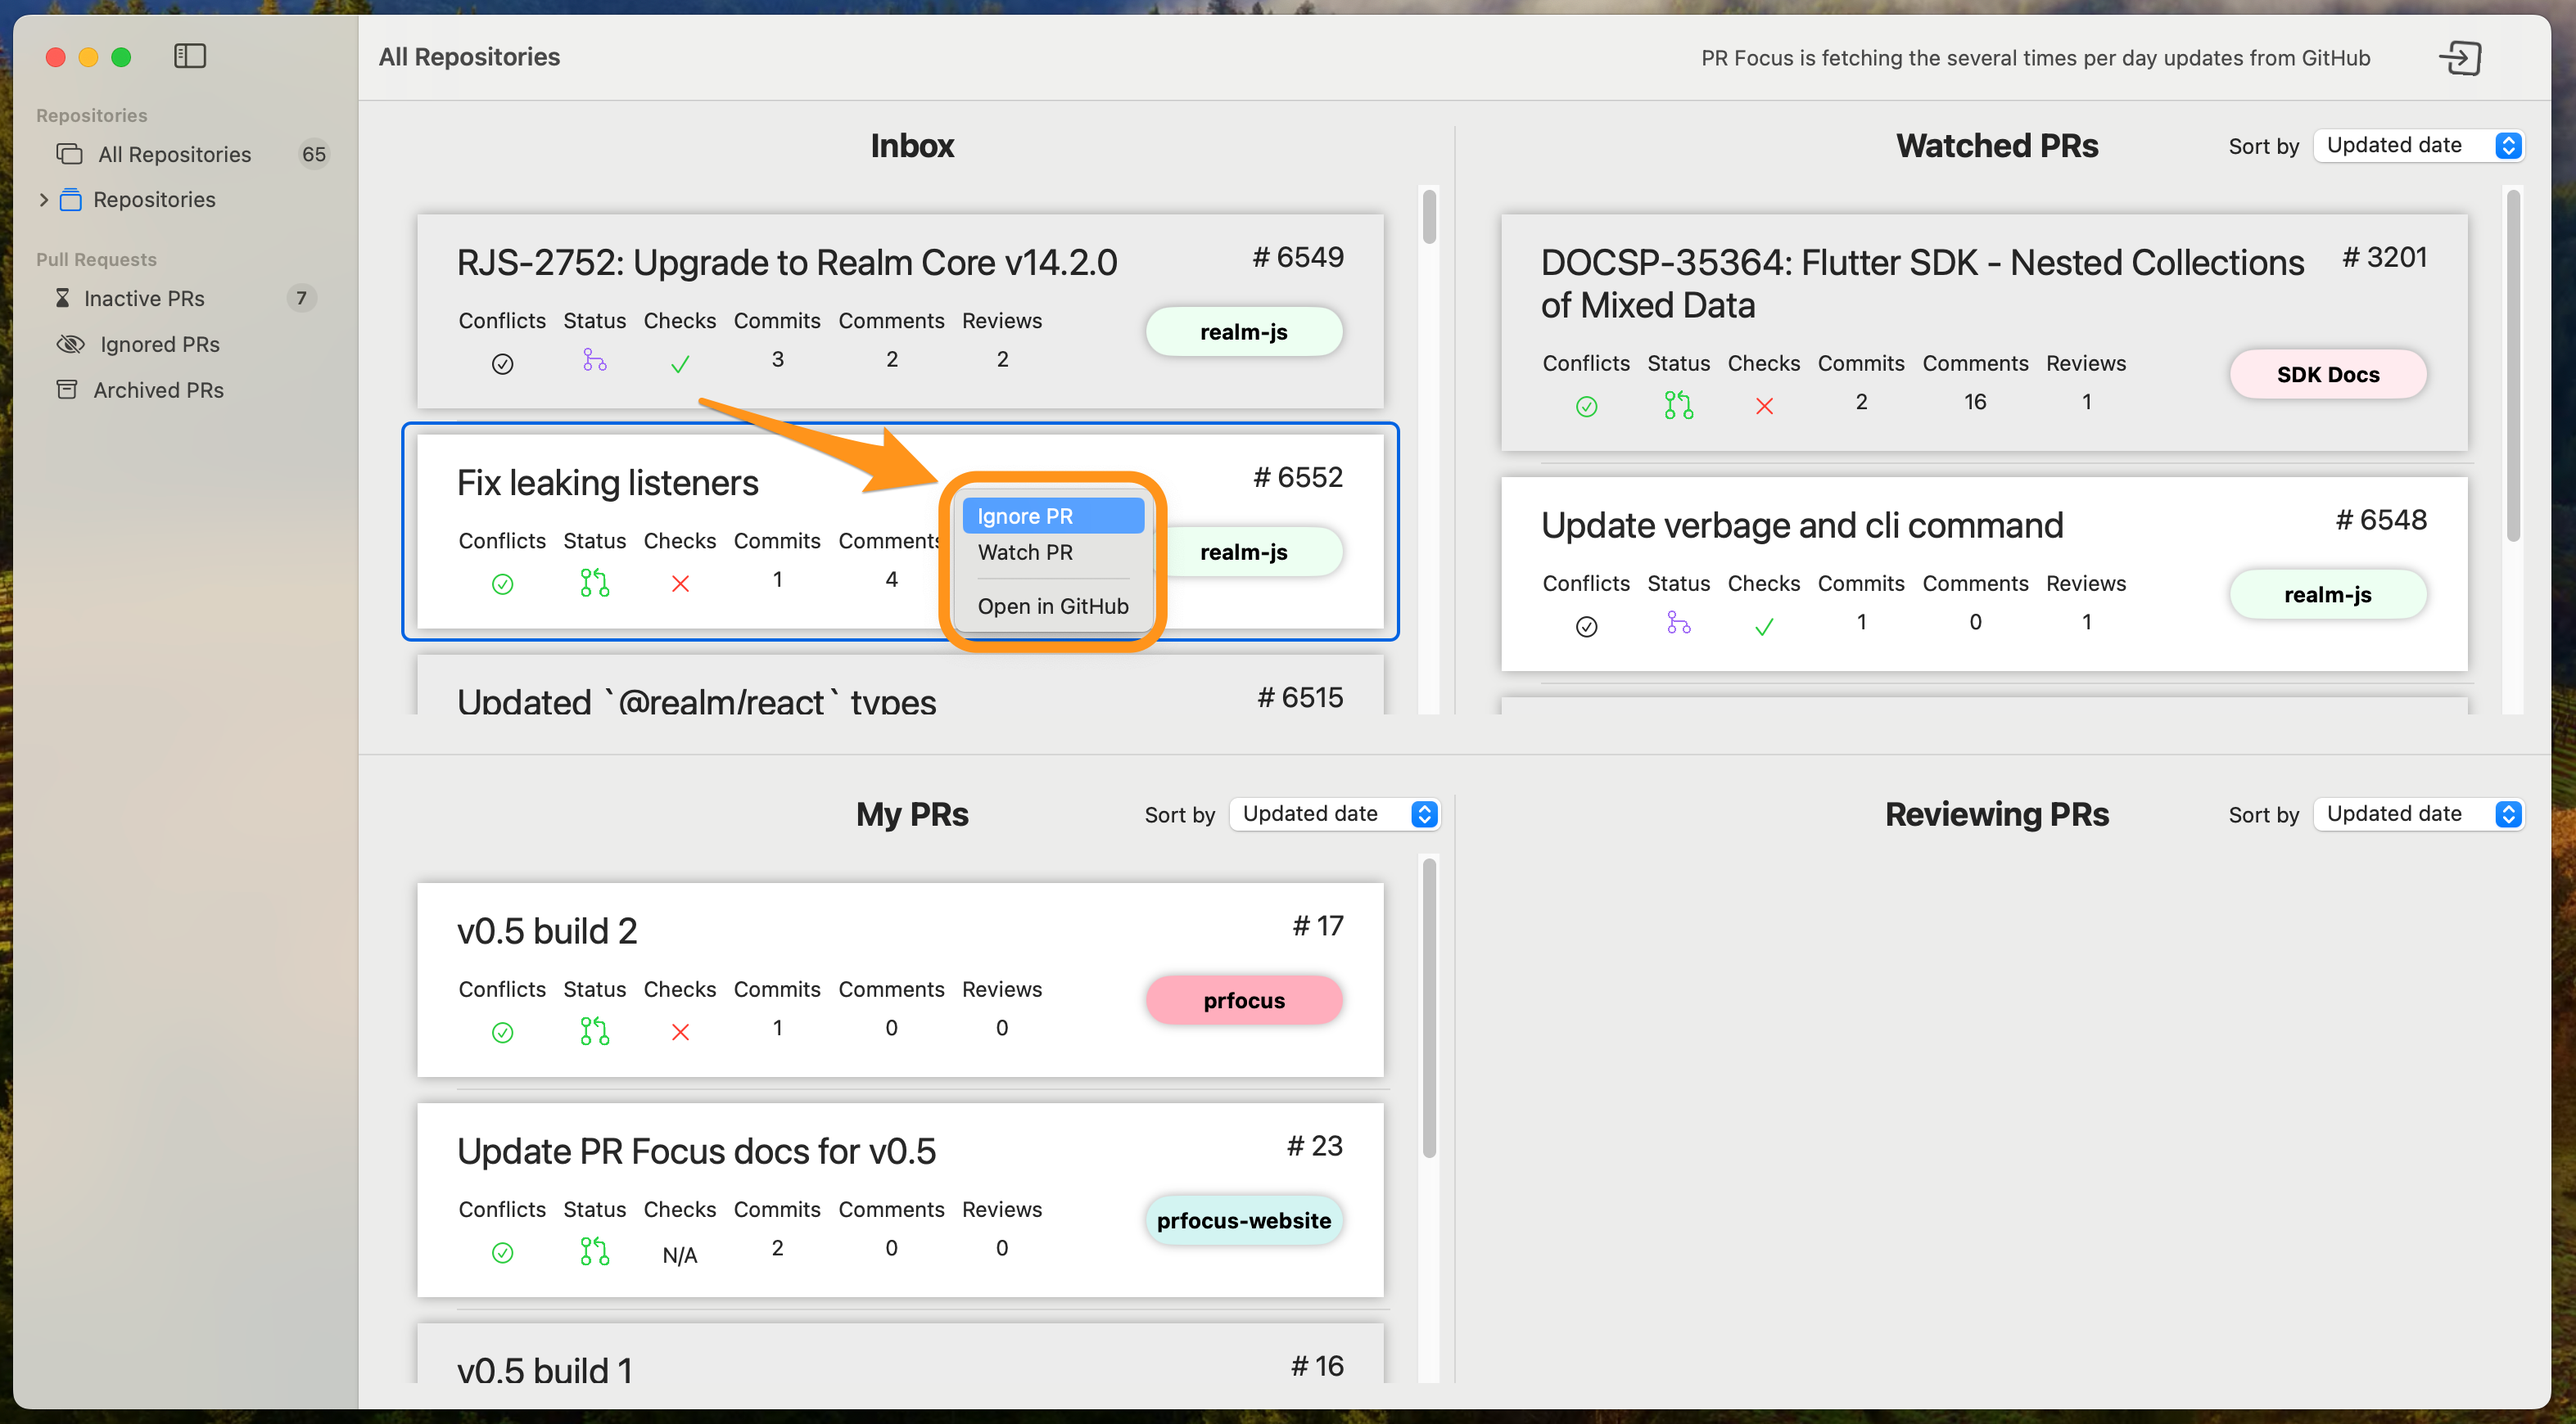
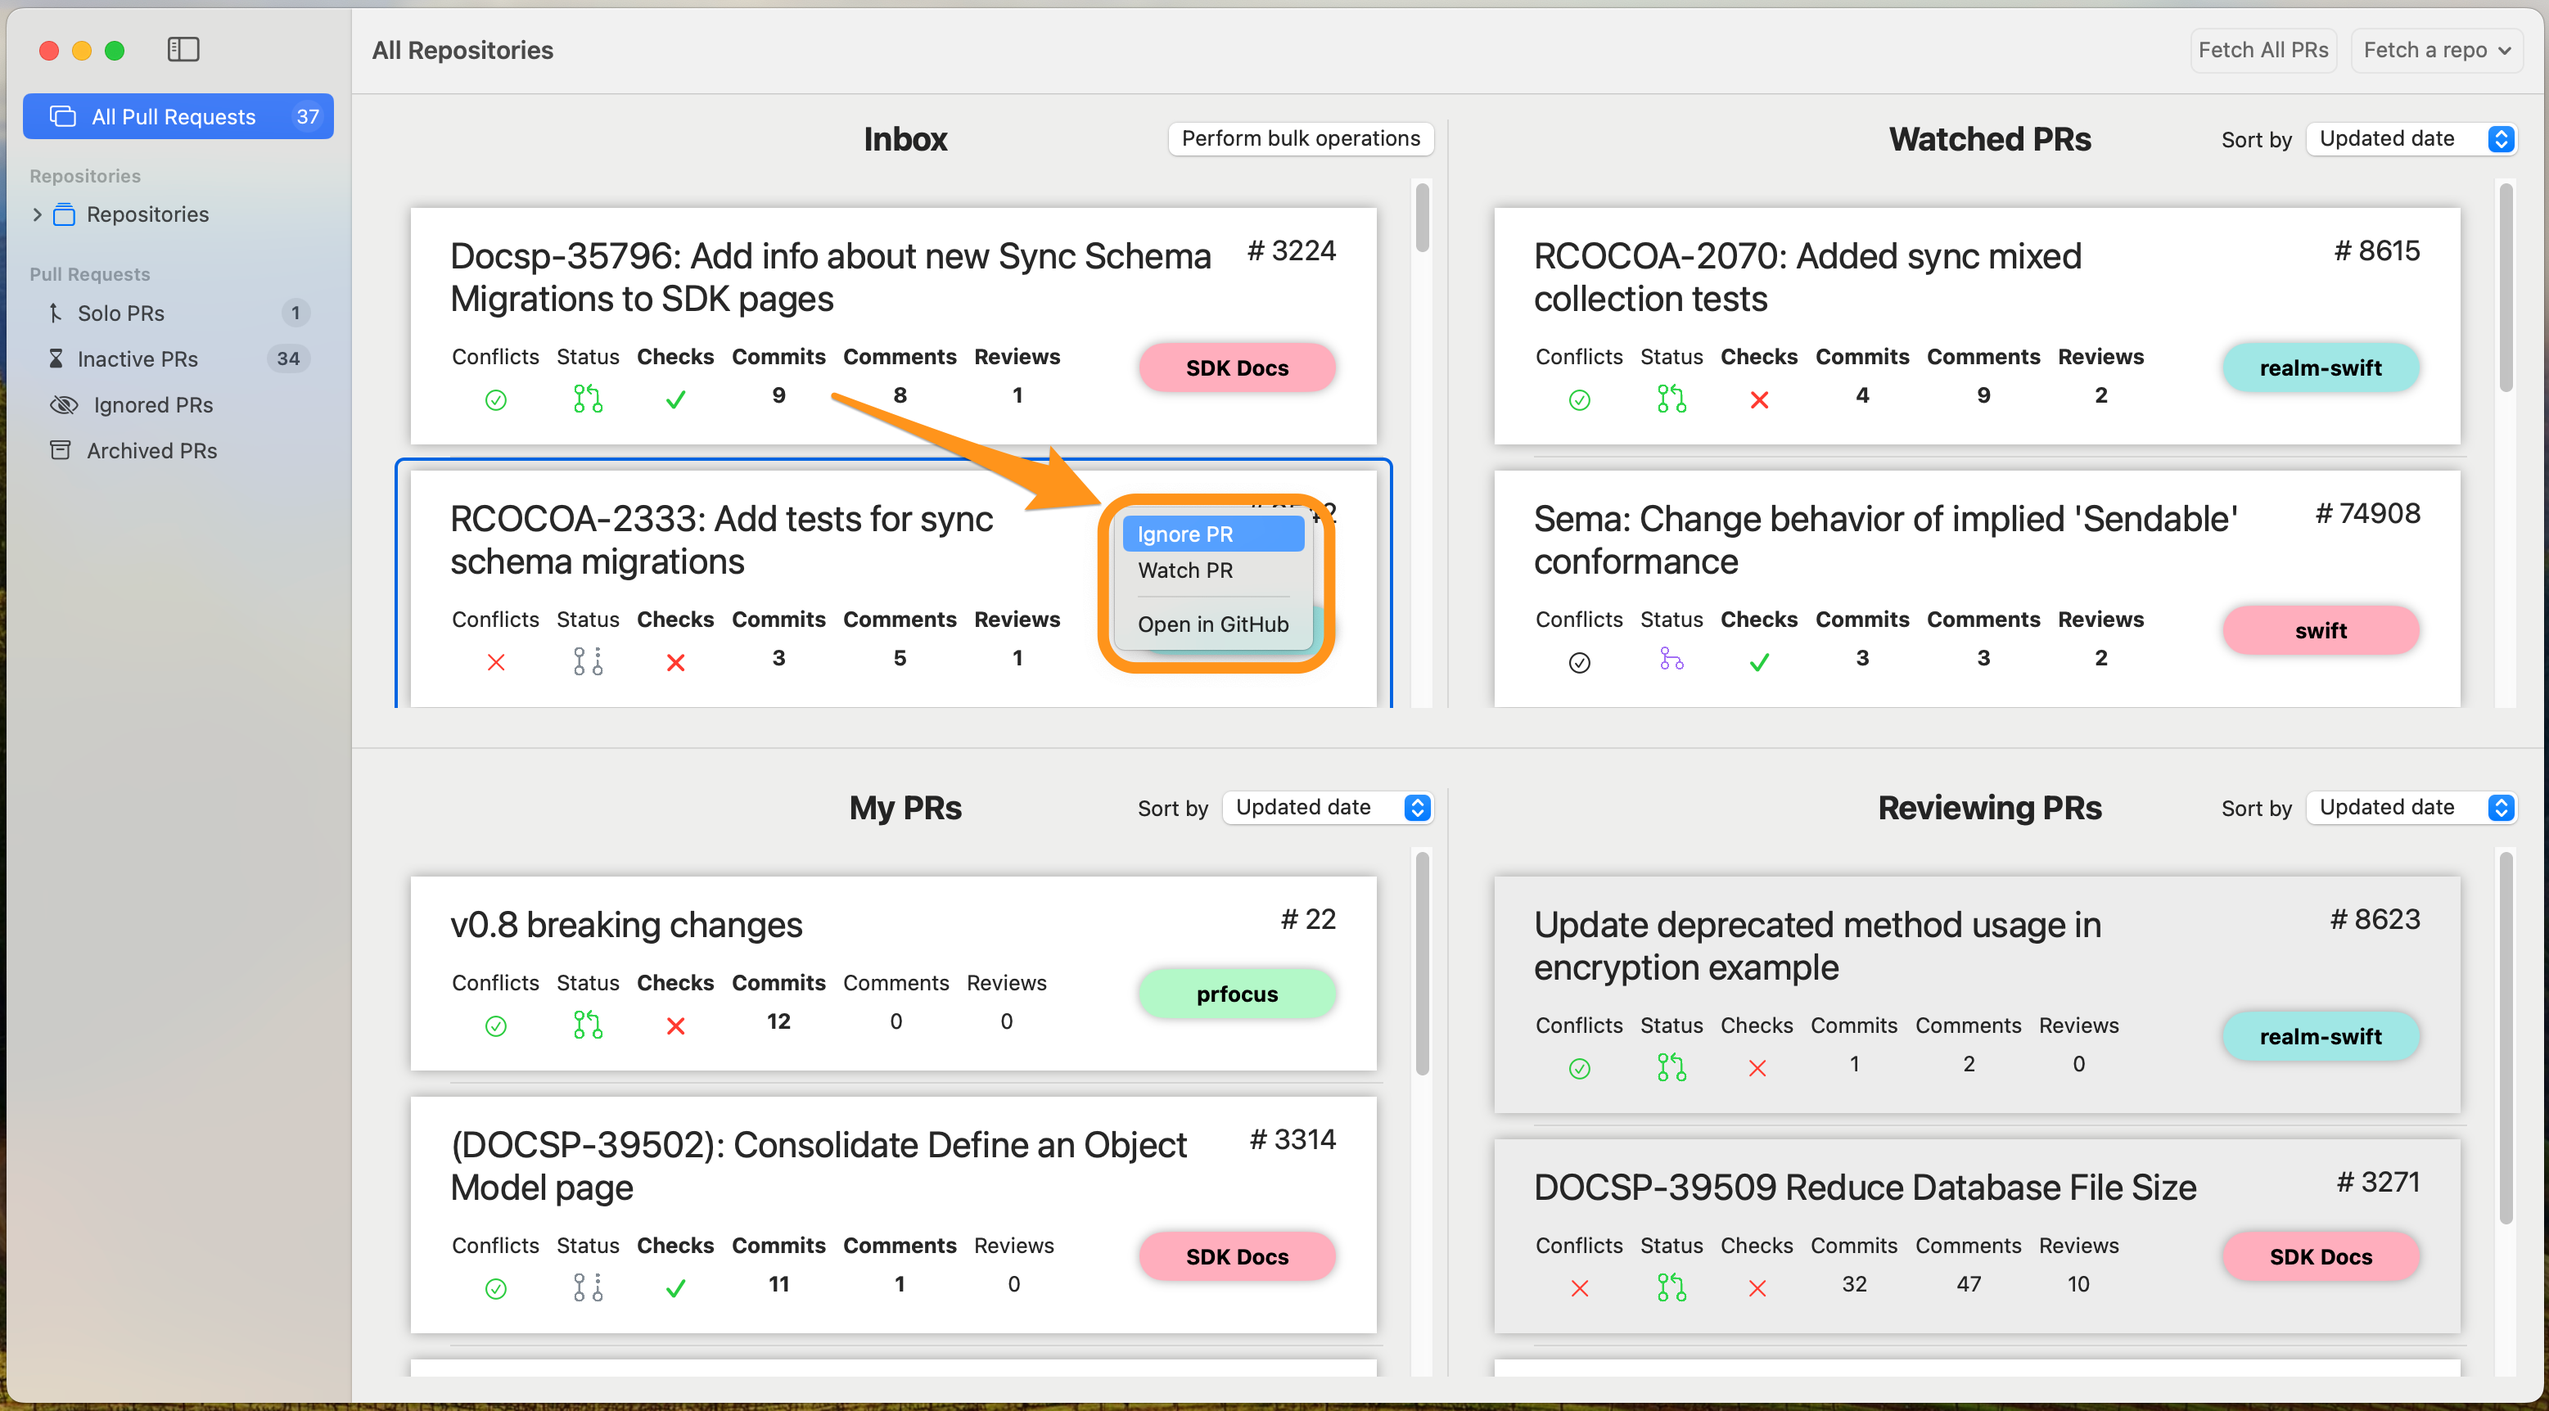
Update bulk operation UI details

diff --git a/content/en/docs/pull-requests/incoming-pr.md b/content/en/docs/pull-requests/incoming-pr.md
@@ -6,7 +6,13 @@ description: >
   Find out about new PRs in a repository, and decide whether to watch or ignore them.
 ---
 
-When you start PR Focus, when you add a repository, or at intervals you can configure while the app is open, PR Focus retrieves a list of open pull requests for the repositories you watch. You can also manually fetch PRs at any time.
+PR Focus automatically fetches new pull requests and updates to existing pull requests:
+
+- When you start PR Focus
+- When you watch a solo pull request or repository
+- At regular intervals while the app is open
+
+You can also manually fetch PRs at any time.
 
 If a PR already exists in PR Focus matching the PR number, PR Focus retrieves the most up-to-date version of the PR from GitHub and updates the details in PR Focus. If an open PR does not match a PR number that PR Focus already knows about, it creates a new PR.
 
@@ -20,7 +26,7 @@ When the PR was made by somebody other than you, and you're not an assignee or a
 
 ![Screenshot showing a PR Summary](/images/pr-summary.png)
 
-The list of PR Summaries in your **Inbox** let you quickly scan a list of new PRs and decide whether they require action from you or you can safely ignore them. You can view PRs in your **Inbox** on a per-repository basis, or see a list of all incoming PRs in the **All Repositories** view.
+The list of PR Summaries in your **Inbox** let you quickly scan a list of new PRs and decide whether they require action from you or you can safely ignore them. You can view PRs in your **Inbox** on a per-repository basis, or see a list of all incoming PRs in the **All Pull Requests** view.
 
 ## Watch, Ignore PR, or Archive PRs
 
@@ -42,12 +48,14 @@ You can also select the "Open in GitHub" option if you want to view details abou
 
 ### Perform Bulk Operations from the Aggregate Inbox List
 
-When you press the **Perform bulk operations** button, this enables multi-selection in the Inbox list.
+When you press the **Perform bulk operations** button, this enables multi-selection in the Inbox list. The PR Summary switches to a less information-dense view with a few basic details:
 
-- Select specific PRs: Command + Click to select individual PRs.
-- Range select PRs: Click on a PR, and then Shift + Click the last PR in the range.
+- PR Name
+- PR Status
+- PR Number
+- Repository
 
-Press **Perform bulk operations** again to disable multi-selection and return the list to its normal behavior.
+While in this view, select PRs and press the relevant button to perform a bulk operation. Press **Perform bulk operations** again to disable multi-selection and return the list to its normal behavior.
 
 ![Screenshot showing the Watch, Ignore, and Archive buttons and multiple PRs selected when performing bulk operations](/images/perform-bulk-operations.png)
 
@@ -65,13 +73,13 @@ You might want to ignore a PR if:
 - The work is internal to the originating team and you don't need to know the outcome
 - You haven't interacted with the PR and don't care about its progress
 
-When you watch a PR, it goes into your **Watched PRs** list, both in the Repository Dashboard and in the All Repositories Dashboard.
+When you watch a PR, it goes into your **Watched PRs** list, both in the Repository Dashboard and in the **All Pull Requests** Dashboard.
 
 When you ignore a PR, it goes into the [**Ignored PRs** Dashboard]({{< ref "docs/pull-requests/ignored-prs.md" >}}).
 
 ### Watch or Ignore Cannot Override Assigned, Reviewing, or My PR
 
-When you are assigned to a PR, you are a PR reviewer, or the PR was made by you, Watch or Ignore has no effect. Watching such a PR does not move it into your **Watched PRs** list, and ignoring such a PR does not move it to the **Ignored PRs dashboard**.
+When you are assigned to a PR, you are a PR reviewer, or the PR was made by you, Watch or Ignore has no effect. Watching such a PR does not move it into your **Watched PRs** list, and ignoring such a PR does not move it to the **Ignored PRs** dashboard.
 
 This is an intentional design decision so you don't miss important work that requires your attention. If you have a use case for changing this functionality, please send me an email or file a feature request.
 
@@ -81,6 +89,16 @@ If you Watch or Ignore an incoming PR, and later you become a reviewer or an ass
 
 Watch and Ignore are mutually exclusive options. If you have previously watched a PR, and then press the **Ignore** button, PR Focus stops watching the PR and moves it into the **Ignored PRs** dashboard. If you have previously ignored a PR, and then press the **Watch** button, PR Focus stops ignoring it and moves it from the **Ignored PRs** dashboard back to the **Watched PRs** list.
 
-If you choose to **Stop Watching** or **Stop Ignoring** a PR, and the PR is open, it goes back to your **Inbox**, or to your **Inactive PRs** dashboard. If the PR is closed, it goes back to your **Inbox** or **Archived PRs** dashboard.
-
 You can change the watch or ignore status in the same ways you can set it - from right-clicking on a PR Summary or while viewing the PR Details.
+
+If you choose to **Stop Watching** or **Stop Ignoring** a PR, the behavior varies depending on whether it came into PR Focus through watching a repository, or whether it's a PR you added as a solo PR.
+
+### In a Watched Repository
+
+If the PR is still open, it goes back to your **Inbox**. If the PR is no longer open, it disappears until it eventually becomes *archived* at the interval you've configured. Once it is archived, it appears in the **Archived PRs** dashboard.
+
+You might stop watching a PR if you're undecided if you need to pay attention to it. You might choose this option instead of going directly to **Ignore** if you want to see upcoming changes to a PR before deciding how to react to it.
+
+### When it's a solo PR
+
+If you have added a pull request that isn't part of a repository you're watching, it automatically goes into your **Watched PRs** list. PR Focus assumes that when you **Stop Watching** one of these pull requests, you no longer care about it, and PR Focus deletes it. This is the only scenario where PR Focus makes it possible to delete a pull request that isn't closed.
